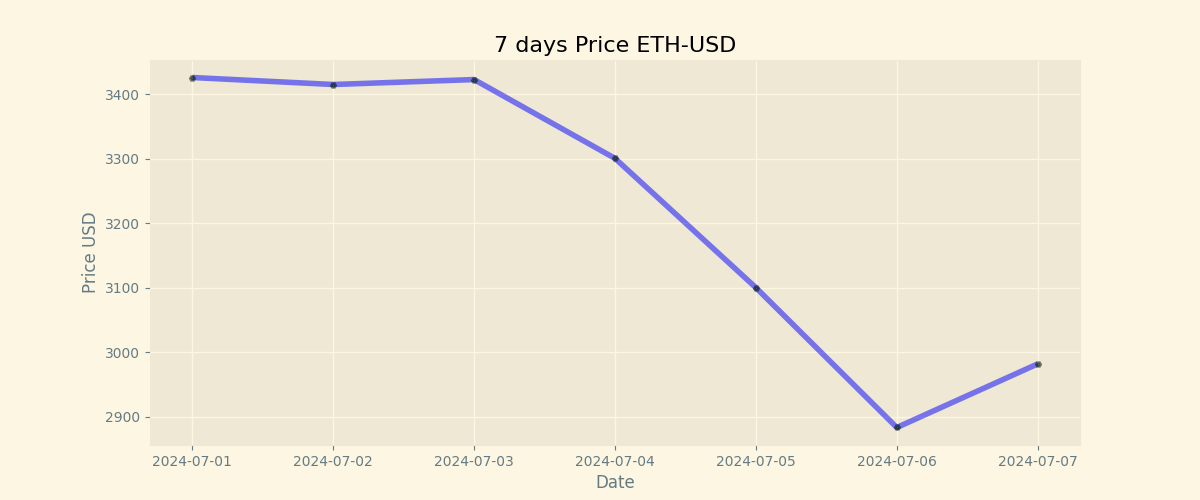
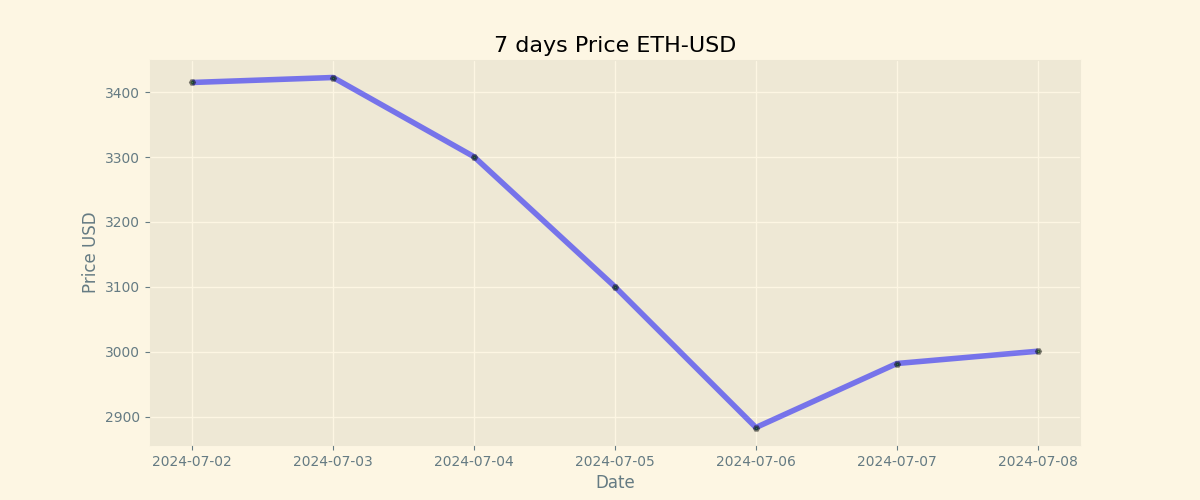
Duty Updates 2024-07-08

diff --git a/README.md b/README.md
@@ -9,8 +9,8 @@
 
 | Currency | Price           |
 | -------- | --------------- |
-| **BTC**  | **$ 56507.95** |
-| **ETH**  | **$ 2981.87** |
+| **BTC**  | **$ 57656.76** |
+| **ETH**  | **$ 3000.81** |
 
 ## BTC chart
 
